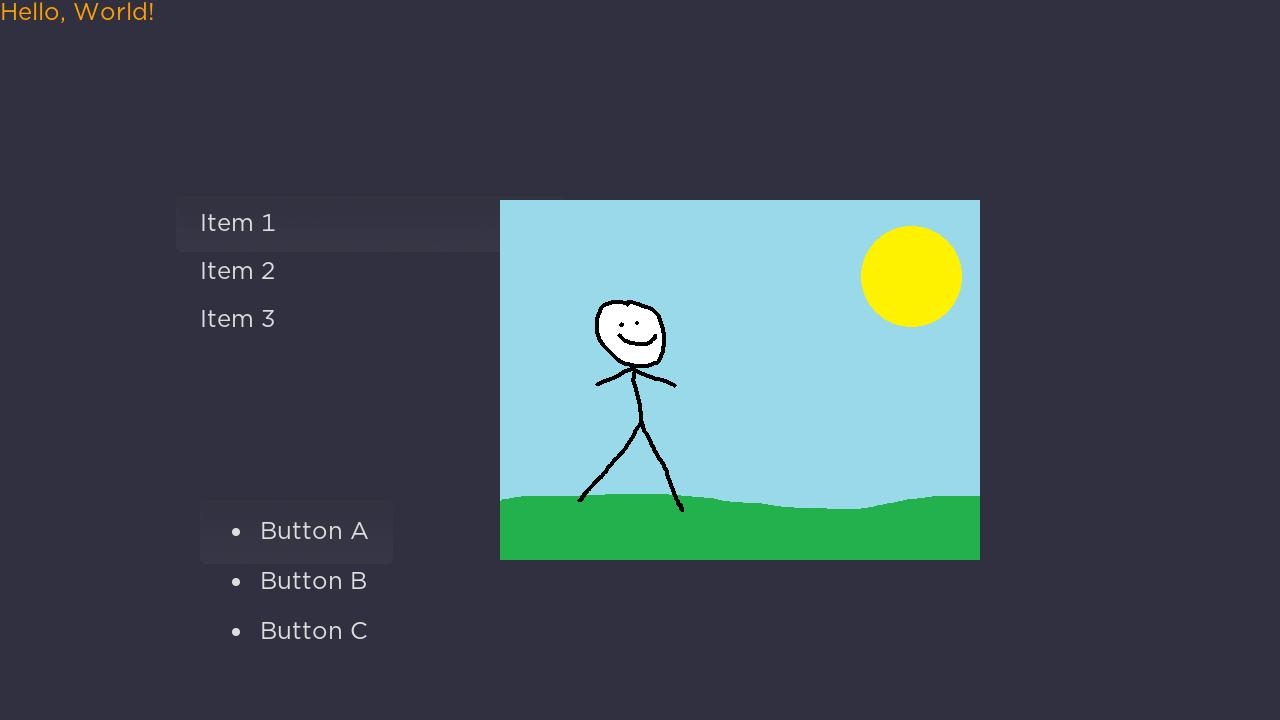
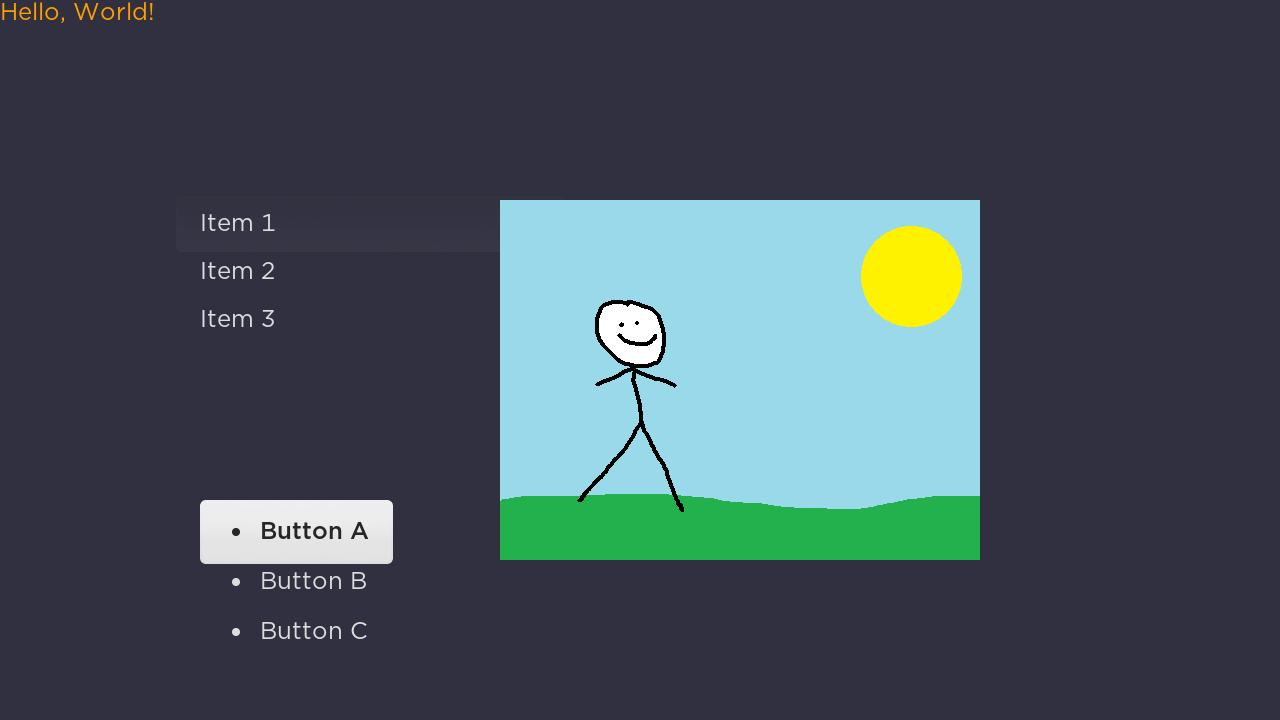
Updated readme and screenshot

Changed region(s): [[0.1562, 0.6722, 0.3125, 0.7944]]

diff --git a/06-set_focus-01/README.md b/06-set_focus-01/README.md
@@ -1,2 +1,2 @@
-Displays a label, label list, button group and poster via brightscript code instead of SceneGraph XML
+Sets the initial focus of a node
 <img src="screenshot.jpg">
